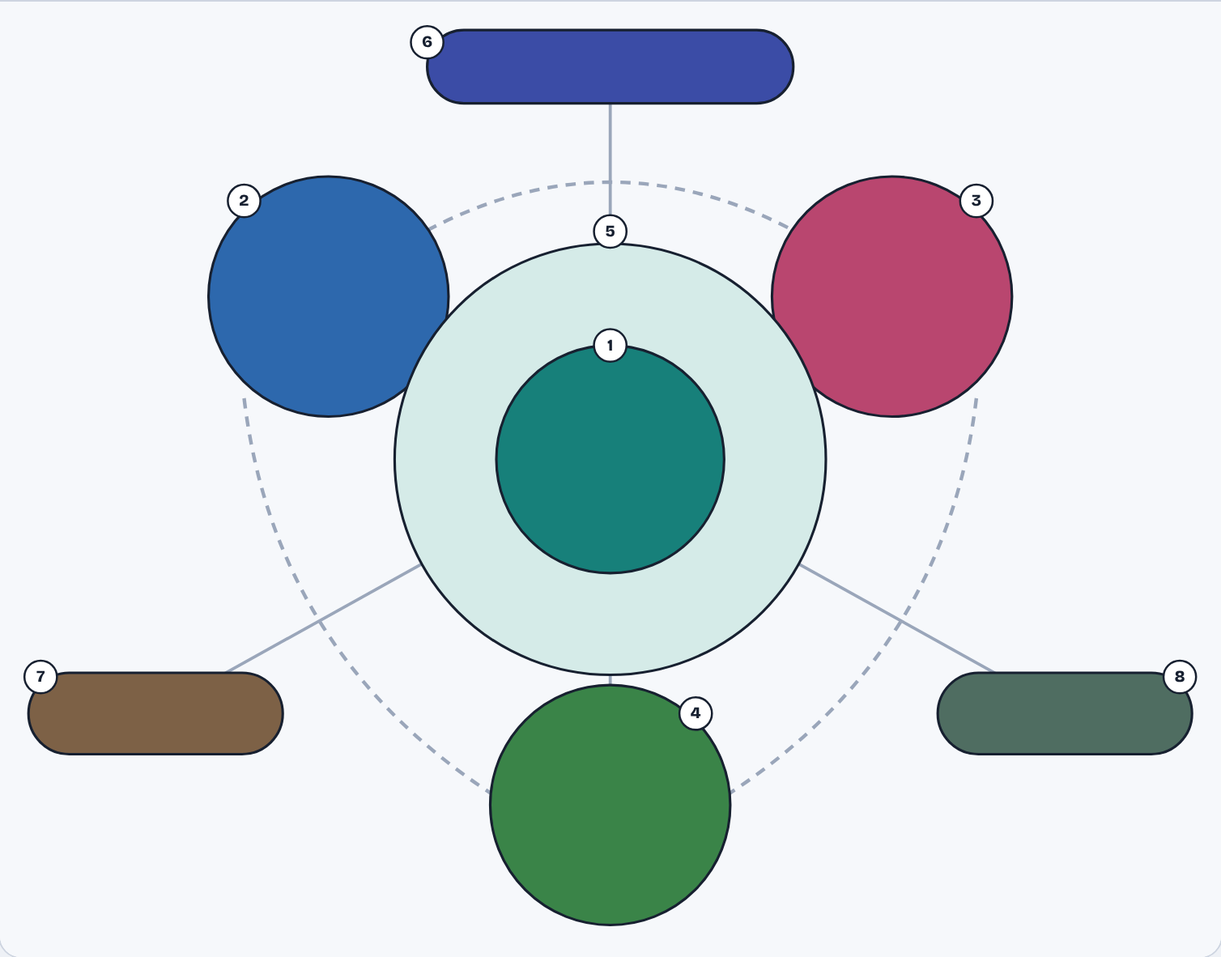
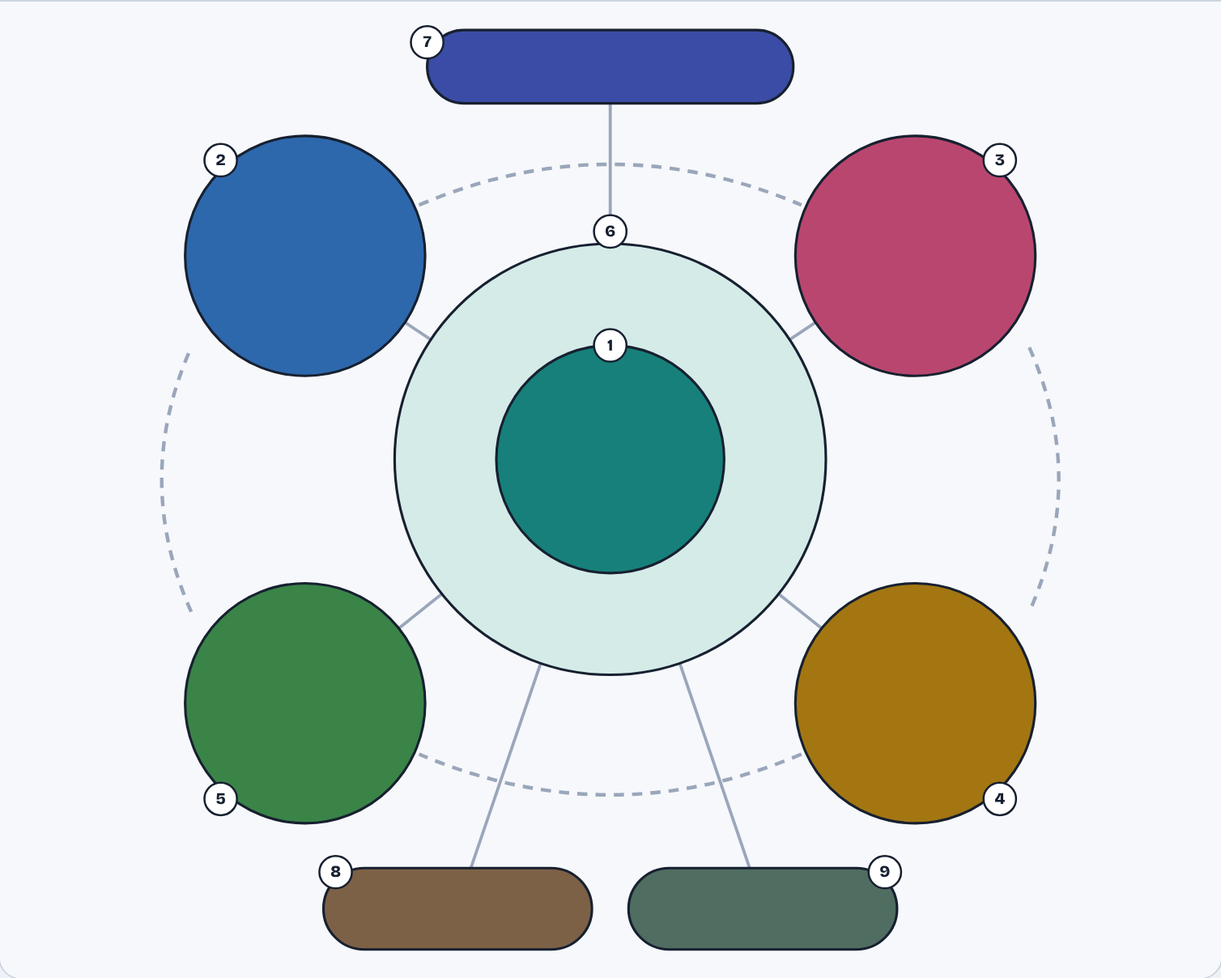
Add Child Witness to the ecosystem diagram and Prezi directions
Claude-Session: https://claude.ai/code/session_019PSDoDWkrb4mkScErA8UkE

diff --git a/Visual Learning Board/clinical-team-leader-ecosystem.html b/Visual Learning Board/clinical-team-leader-ecosystem.html
@@ -7,7 +7,7 @@
 :root {
   --bg: #eef1f6; --surface: #ffffff; --ink: #172030; --muted: #536079; --line: #cdd4e0; --focus: #ff9f1c;
   --canvas: #f6f8fb; --wire: #9aa6ba; --ring: #d5ebe8;
-  --gov: #3b4ca6; --role: #17807a; --admin: #7d6146; --mbc: #2d68ad; --sab: #3a8448; --couns: #b9466f; --part: #4f6d61;
+  --gov: #3b4ca6; --role: #17807a; --admin: #7d6146; --mbc: #2d68ad; --sab: #3a8448; --couns: #b9466f; --part: #4f6d61; --cw: #a37612;
   --display: "Bricolage Grotesque", "Avenir Next", "Segoe UI", system-ui, sans-serif;
   --body: "Atkinson Hyperlegible", "Verdana", "Segoe UI", system-ui, sans-serif;
 }
@@ -41,7 +41,7 @@ button:hover { border-color: var(--muted); }
 button:focus-visible, .node:focus-visible { outline: 3px solid var(--focus); outline-offset: 2px; }
 button[aria-pressed="true"] { background: var(--ink); color: var(--bg); border-color: var(--ink); }
 .stopcount { font-size: 13px; color: var(--muted); font-variant-numeric: tabular-nums; }
-svg.map { width: 100%; height: auto; display: block; aspect-ratio: 1200 / 940; max-width: 100%; background: var(--canvas); }
+svg.map { width: 100%; height: auto; display: block; aspect-ratio: 1200 / 960; max-width: 100%; background: var(--canvas); }
 
 .wire { stroke: var(--wire); stroke-width: 3; fill: none; }
 .wire.ref { stroke-dasharray: 10 8; stroke-width: 3.5; }
@@ -84,7 +84,7 @@ ol.steps li::marker { font-family: var(--display); font-weight: 800; }
   <header>
     <span class="eyebrow">Leadership presentation · CatholicCare CQ DFV services</span>
     <h1>Clinical Team Leader Ecosystem</h1>
-    <p>The Clinical Team Leader is the connection point between three programs, the leadership above them, the people processes that support staff, and the agencies outside. Click any part to zoom in, or press Next to walk the eight stops in presentation order.</p>
+    <p>The Clinical Team Leader is the connection point between four programs, the leadership above them, the people processes that support staff, and the agencies outside. Click any part to zoom in, or press Next to walk the nine stops in presentation order.</p>
   </header>
 
   <section class="board" aria-label="Interactive ecosystem diagram">
@@ -97,83 +97,96 @@ ol.steps li::marker { font-family: var(--display); font-weight: 800; }
         <span class="spacer"></span>
         <button id="recallBtn" type="button" aria-pressed="false">Recall mode</button>
       </div>
-      <svg class="map" id="map" viewBox="0 0 1200 940" role="img" aria-label="Ecosystem diagram with the Clinical Team Leader at the centre">
+      <svg class="map" id="map" viewBox="0 0 1200 960" role="img" aria-label="Ecosystem diagram with the Clinical Team Leader at the centre">
         <!-- wires from centre -->
         <line class="wire" x1="600" y1="450" x2="600" y2="92"/>
-        <line class="wire" x1="600" y1="450" x2="323" y2="290"/>
-        <line class="wire" x1="600" y1="450" x2="877" y2="290"/>
-        <line class="wire" x1="600" y1="450" x2="600" y2="790"/>
-        <line class="wire" x1="600" y1="450" x2="150" y2="700"/>
-        <line class="wire" x1="600" y1="450" x2="1050" y2="700"/>
+        <line class="wire" x1="600" y1="450" x2="300" y2="250"/>
+        <line class="wire" x1="600" y1="450" x2="900" y2="250"/>
+        <line class="wire" x1="600" y1="450" x2="300" y2="690"/>
+        <line class="wire" x1="600" y1="450" x2="900" y2="690"/>
+        <line class="wire" x1="600" y1="450" x2="450" y2="890"/>
+        <line class="wire" x1="600" y1="450" x2="750" y2="890"/>
         <!-- referrals between programs -->
-        <path class="wire ref" d="M420 225 Q 600 130 780 225"/>
-        <path class="wire ref" d="M960 390 Q 930 640 715 780"/>
-        <path class="wire ref" d="M240 390 Q 270 640 485 780"/>
-        <text class="t s ink" x="470" y="186" font-size="13">referrals between programs</text>
+        <path class="wire ref" d="M412 200 Q 600 120 788 200"/>
+        <path class="wire ref" d="M1012 340 Q 1070 470 1012 600"/>
+        <path class="wire ref" d="M788 740 Q 600 820 412 740"/>
+        <path class="wire ref" d="M188 600 Q 130 470 188 340"/>
+        <text class="t s ink" x="480" y="150" font-size="13">referrals between programs</text>
 
-        <!-- 6 Leadership -->
-        <g class="node" data-z="lead" tabindex="0" role="button" aria-label="Stop 6, leadership and governance">
+        <!-- 7 Leadership -->
+        <g class="node" data-z="lead" tabindex="0" role="button" aria-label="Stop 7, leadership and governance">
           <rect class="shape" x="420" y="28" width="360" height="72" rx="36" fill="var(--gov)"/>
           <text class="t" x="600" y="62" font-size="22">Leadership &amp; governance</text>
           <text class="t s" x="600" y="84" font-size="13">Senior leadership · DFV Steering Committee</text>
-          <g class="badge" transform="translate(420,40)"><circle r="16"/><text>6</text></g>
+          <g class="badge" transform="translate(420,40)"><circle r="16"/><text>7</text></g>
         </g>
 
         <!-- 2 MBC -->
         <g class="node" data-z="mbc" tabindex="0" role="button" aria-label="Stop 2, Men's Behaviour Change">
-          <circle class="shape" cx="323" cy="290" r="118" fill="var(--mbc)"/>
-          <text class="t" x="323" y="238" font-size="30">MBC</text>
-          <text class="t s" x="323" y="260" font-size="13">Men’s Behaviour Change</text>
-          <text class="t" x="323" y="294" font-size="16">Rachel · Bree · Zac</text>
-          <text class="t s" x="323" y="324" font-size="13">Rockhampton · Wed &amp; Thu</text>
-          <text class="t s" x="323" y="344" font-size="13">Emerald · fortnightly Tue</text>
-          <g class="badge" transform="translate(240,196)"><circle r="16"/><text>2</text></g>
+          <circle class="shape" cx="300" cy="250" r="118" fill="var(--mbc)"/>
+          <text class="t" x="300" y="198" font-size="30">MBC</text>
+          <text class="t s" x="300" y="220" font-size="13">Men’s Behaviour Change</text>
+          <text class="t" x="300" y="254" font-size="16">Rachel · Bree · Zac</text>
+          <text class="t s" x="300" y="284" font-size="13">Rockhampton · Wed &amp; Thu</text>
+          <text class="t s" x="300" y="304" font-size="13">Emerald · fortnightly Tue</text>
+          <g class="badge" transform="translate(217,156)"><circle r="16"/><text>2</text></g>
         </g>
 
         <!-- 3 Counselling -->
         <g class="node" data-z="couns" tabindex="0" role="button" aria-label="Stop 3, Counselling team">
-          <circle class="shape" cx="877" cy="290" r="118" fill="var(--couns)"/>
-          <text class="t" x="877" y="238" font-size="26">Counselling</text>
-          <text class="t s" x="877" y="260" font-size="13">Counselling team</text>
-          <text class="t" x="877" y="294" font-size="16">Georgia · Candy · Lorena</text>
-          <text class="t s" x="877" y="324" font-size="13">Therapeutic interventions</text>
-          <text class="t s" x="877" y="344" font-size="13">Internal referrals</text>
-          <g class="badge" transform="translate(960,196)"><circle r="16"/><text>3</text></g>
+          <circle class="shape" cx="900" cy="250" r="118" fill="var(--couns)"/>
+          <text class="t" x="900" y="198" font-size="26">Counselling</text>
+          <text class="t s" x="900" y="220" font-size="13">Counselling team</text>
+          <text class="t" x="900" y="254" font-size="16">Georgia · Candy · Lorena</text>
+          <text class="t s" x="900" y="284" font-size="13">Therapeutic interventions</text>
+          <text class="t s" x="900" y="304" font-size="13">Internal referrals</text>
+          <g class="badge" transform="translate(983,156)"><circle r="16"/><text>3</text></g>
         </g>
 
-        <!-- 4 SAB -->
-        <g class="node" data-z="sab" tabindex="0" role="button" aria-label="Stop 4, Supporting Adolescent Boys">
-          <circle class="shape" cx="600" cy="790" r="118" fill="var(--sab)"/>
-          <text class="t" x="600" y="726" font-size="30">SAB</text>
-          <text class="t s" x="600" y="748" font-size="13">Supporting Adolescent Boys</text>
-          <text class="t" x="600" y="778" font-size="15">Hayden Lovell</text>
-          <text class="t" x="600" y="797" font-size="15">Hayden Peckover · Ric</text>
-          <text class="t s" x="600" y="826" font-size="13">Early intervention · Family</text>
-          <text class="t s" x="600" y="844" font-size="13">engagement · Behaviour change</text>
-          <g class="badge" transform="translate(684,700)"><circle r="16"/><text>4</text></g>
+        <!-- 4 Child Witness -->
+        <g class="node" data-z="cw" tabindex="0" role="button" aria-label="Stop 4, Child Witness">
+          <circle class="shape" cx="900" cy="690" r="118" fill="var(--cw)"/>
+          <text class="t" x="900" y="640" font-size="26">Child Witness</text>
+          <text class="t s" x="900" y="662" font-size="13">Children affected by DFV</text>
+          <text class="t" x="900" y="696" font-size="16">Team: add names</text>
+          <text class="t s" x="900" y="726" font-size="13">Child-focused support</text>
+          <text class="t s" x="900" y="746" font-size="13">Trauma-informed · Safe carers</text>
+          <g class="badge" transform="translate(983,784)"><circle r="16"/><text>4</text></g>
         </g>
 
-        <!-- 7 HR -->
-        <g class="node" data-z="hr" tabindex="0" role="button" aria-label="Stop 7, people and HR processes">
-          <rect class="shape" x="28" y="660" width="250" height="80" rx="40" fill="var(--admin)"/>
-          <text class="t" x="153" y="696" font-size="20">People &amp; HR</text>
-          <text class="t s" x="153" y="719" font-size="13">HR 029 · Employment Hero</text>
-          <g class="badge" transform="translate(40,664)"><circle r="16"/><text>7</text></g>
+        <!-- 5 SAB -->
+        <g class="node" data-z="sab" tabindex="0" role="button" aria-label="Stop 5, Supporting Adolescent Boys">
+          <circle class="shape" cx="300" cy="690" r="118" fill="var(--sab)"/>
+          <text class="t" x="300" y="626" font-size="30">SAB</text>
+          <text class="t s" x="300" y="648" font-size="13">Supporting Adolescent Boys</text>
+          <text class="t" x="300" y="678" font-size="15">Hayden Lovell</text>
+          <text class="t" x="300" y="697" font-size="15">Hayden Peckover · Ric</text>
+          <text class="t s" x="300" y="726" font-size="13">Early intervention · Family</text>
+          <text class="t s" x="300" y="744" font-size="13">engagement · Behaviour change</text>
+          <g class="badge" transform="translate(217,784)"><circle r="16"/><text>5</text></g>
         </g>
 
-        <!-- 8 Stakeholders -->
-        <g class="node" data-z="stake" tabindex="0" role="button" aria-label="Stop 8, external stakeholders">
-          <rect class="shape" x="922" y="660" width="250" height="80" rx="40" fill="var(--part)"/>
-          <text class="t" x="1047" y="696" font-size="20">Stakeholders</text>
-          <text class="t s" x="1047" y="719" font-size="13">HRT · Child Safety · QPS · Court</text>
-          <g class="badge" transform="translate(1160,664)"><circle r="16"/><text>8</text></g>
+        <!-- 8 HR -->
+        <g class="node" data-z="hr" tabindex="0" role="button" aria-label="Stop 8, people and HR processes">
+          <rect class="shape" x="318" y="852" width="264" height="80" rx="40" fill="var(--admin)"/>
+          <text class="t" x="450" y="888" font-size="20">People &amp; HR</text>
+          <text class="t s" x="450" y="911" font-size="13">HR 029 · Employment Hero</text>
+          <g class="badge" transform="translate(330,856)"><circle r="16"/><text>8</text></g>
         </g>
 
-        <!-- 5 Overlap ring -->
-        <g class="node" data-z="overlap" tabindex="0" role="button" aria-label="Stop 5, where the overlap occurs">
+        <!-- 9 Stakeholders -->
+        <g class="node" data-z="stake" tabindex="0" role="button" aria-label="Stop 9, external stakeholders">
+          <rect class="shape" x="618" y="852" width="264" height="80" rx="40" fill="var(--part)"/>
+          <text class="t" x="750" y="888" font-size="20">Stakeholders</text>
+          <text class="t s" x="750" y="911" font-size="13">HRT · Child Safety · QPS · Court</text>
+          <g class="badge" transform="translate(870,856)"><circle r="16"/><text>9</text></g>
+        </g>
+
+        <!-- 6 Overlap ring -->
+        <g class="node" data-z="overlap" tabindex="0" role="button" aria-label="Stop 6, where the overlap occurs">
           <circle class="shape" cx="600" cy="450" r="212" fill="var(--ring)"/>
           <g id="ringlabels"></g>
-          <g class="badge" transform="translate(600,226)"><circle r="16"/><text>5</text></g>
+          <g class="badge" transform="translate(600,226)"><circle r="16"/><text>6</text></g>
         </g>
 
         <!-- 1 Centre -->
@@ -202,8 +215,8 @@ ol.steps li::marker { font-family: var(--display); font-weight: 800; }
       <h2 id="pz">Turn the picture into your presentation</h2>
       <ol class="steps">
         <li><b>Background.</b> Upload the ecosystem picture as the Prezi background. Use the labelled version for presenting and the blank one to rehearse.</li>
-        <li><b>Topics.</b> Put a topic over each of the eight parts, named exactly as on the picture.</li>
-        <li><b>Path.</b> Order the path 1 to 8: you, the three programs, the overlap, then outward to leadership, people and stakeholders. End by zooming back out to the whole picture.</li>
+        <li><b>Topics.</b> Put a topic over each of the nine parts, named exactly as on the picture.</li>
+        <li><b>Path.</b> Order the path 1 to 9: you, the four programs, the overlap, then outward to leadership, people and stakeholders. End by zooming back out to the whole picture.</li>
         <li><b>Subtopics.</b> Inside the centre circle, add the nine responsibilities as three groups of three: Leading practice, Leading people, Leading outward. Three groups are easier to hold than nine items.</li>
         <li><b>Speaker notes.</b> Paste the presenter line for each stop into that topic’s notes.</li>
         <li><b>Rehearse with recall mode.</b> Turn on Recall mode here, click each part and say your line before revealing it.</li>
@@ -215,39 +228,44 @@ ol.steps li::marker { font-family: var(--display); font-weight: 800; }
 <script>
 const Z = {
   ctl: { n:1, c:'--role', band:'Centre', title:'Clinical Team Leader', box:[470,320,260,260],
-    say:'My role sits at the centre. I connect three programs, the staff in them, our leadership, our people processes and our partner agencies.',
+    say:'My role sits at the centre. I connect four programs, the staff in them, our leadership, our people processes and our partner agencies.',
     groups:[['Leading practice',['Clinical governance','Quality assurance','Risk assessment and management']],
             ['Leading people',['Staff development','Supervision and support','Workforce wellbeing']],
             ['Leading outward',['Stakeholder engagement','Service integration','Reporting and outcomes']]],
     next:[['overlap','The overlap is where my role does its work'],['lead','I report up to leadership']]},
-  mbc: { n:2, c:'--mbc', band:'Program', title:'Men’s Behaviour Change (MBC)', box:[195,162,256,256],
+  mbc: { n:2, c:'--mbc', band:'Program', title:'Men’s Behaviour Change (MBC)', box:[172,122,256,256],
     say:'MBC works with men using violence, keeping the safety of women and children at the centre. We run in Rockhampton twice a week and in Emerald fortnightly.',
     what:['Group program for men using violence','Rockhampton groups on Wednesday and Thursday','Emerald group fortnightly on Tuesday','Participation reported through collateral checks and HRT RFIs'],
     who:['Rachel','Bree','Zac'],
     next:[['couns','Partners and family members referred to Counselling'],['sab','Shared families with adolescent boys'],['stake','Collateral checks and HRT']]},
-  couns: { n:3, c:'--couns', band:'Program', title:'Counselling team', box:[749,162,256,256],
+  couns: { n:3, c:'--couns', band:'Program', title:'Counselling team', box:[772,122,256,256],
     say:'The Counselling team provides therapeutic interventions and takes internal referrals from our other programs.',
     what:['Therapeutic interventions','Internal referrals from MBC and SAB'],
     who:['Georgia','Candy','Lorena'],
     next:[['mbc','Referrals in from MBC'],['sab','Referrals in from SAB'],['overlap','Shared clients and families']]},
-  sab: { n:4, c:'--sab', band:'Program', title:'Supporting Adolescent Boys (SAB)', box:[472,662,256,256],
+  cw: { n:4, c:'--cw', band:'Program', title:'Child Witness', box:[772,562,256,256],
+    say:'Child Witness supports children who have seen or lived through domestic and family violence, keeping their voices and their safety at the centre.',
+    what:['Support for children affected by domestic and family violence','Child-focused and trauma-informed','Working alongside the child’s safe carers'],
+    who:['Add team names'],
+    next:[['sab','Children and young people across both programs'],['couns','Safe carers referred to Counselling'],['stake','Child Safety']]},
+  sab: { n:5, c:'--sab', band:'Program', title:'Supporting Adolescent Boys (SAB)', box:[172,562,256,256],
     say:'SAB is early intervention. We work with adolescent boys and their families on behaviour change pathways before patterns set in.',
     what:['Early intervention','Family engagement','Behaviour change pathways'],
     who:['Hayden Lovell','Hayden Peckover','Ric'],
     next:[['mbc','Behaviour change pathway links to MBC'],['couns','Family members referred to Counselling'],['overlap','Shared families']]},
-  overlap: { n:5, c:'--role', band:'The overlap', title:'Where the overlap occurs', box:[378,228,444,444],
+  overlap: { n:6, c:'--role', band:'The overlap', title:'Where the overlap occurs', box:[378,228,444,444],
     say:'The programs don’t work in silos. Families, risk and referrals cross between them, and this overlap is where my role adds the most value.',
     what:['Shared clients and families','Risk management','Referrals between programs','Collaborative case planning','Service coordination','Community engagement','Practice improvement'],
     next:[['ctl','The Clinical Team Leader holds the overlap together'],['stake','Community engagement reaches outward']]},
-  lead: { n:6, c:'--gov', band:'Above', title:'Leadership & governance', box:[400,10,400,110],
+  lead: { n:7, c:'--gov', band:'Above', title:'Leadership & governance', box:[400,10,400,110],
     say:'Upward, I report outcomes to senior leadership and the DFV Steering Committee and carry their direction back into practice.',
     what:['CatholicCare CQ senior leadership','DFV Steering Committee priorities and KPIs','Reporting and outcomes','Clinical governance frameworks and policy'],
     next:[['ctl','Direction comes down through the centre'],['hr','Policy shapes people processes']]},
-  hr: { n:7, c:'--admin', band:'Alongside', title:'People & HR processes', box:[10,620,290,140],
+  hr: { n:8, c:'--admin', band:'Alongside', title:'People & HR processes', box:[300,830,300,120],
     say:'Alongside the clinical work, I hold the people processes that keep the team safe, skilled and supported.',
     what:['Line management recorded on HR 029','Employment Hero for leave and compliance','Professional supervision and development','Student placements, including CQU social work','Workforce wellbeing'],
     next:[['ctl','Supervision and support'],['lead','HR policy from leadership']]},
-  stake: { n:8, c:'--part', band:'Outside', title:'External stakeholders', box:[900,620,290,140],
+  stake: { n:9, c:'--part', band:'Outside', title:'External stakeholders', box:[600,830,300,120],
     say:'Outward, I keep our partnerships strong, sharing information safely with the agencies that hold risk with us.',
     what:['HRT Capricornia, the High Risk Team','Child Safety','Queensland Police Service','Corrective Services','Rockhampton court support','CQUniversity'],
     next:[['ctl','Stakeholder engagement'],['mbc','Collateral checks about MBC participants']]}
@@ -255,7 +273,7 @@ const Z = {
 const ORDER = Object.keys(Z).sort((a,b)=>Z[a].n-Z[b].n);
 const svg = document.getElementById('map'), panel = document.getElementById('panel');
 const NS = 'http://www.w3.org/2000/svg';
-const FULL = [0,0,1200,940];
+const FULL = [0,0,1200,960];
 let cur = null, vb = FULL.slice(), recall = false, revealed = false, anim = null;
 const reduce = window.matchMedia('(prefers-reduced-motion: reduce)').matches;
 
@@ -263,7 +281,7 @@ const reduce = window.matchMedia('(prefers-reduced-motion: reduce)').matches;
 const RING = [['Shared clients','& families'],['Risk','management'],['Referrals','between programs'],['Collaborative','case planning'],['Service','coordination'],['Community','engagement'],['Practice','improvement']];
 const rl = document.getElementById('ringlabels');
 RING.forEach((lines,i)=>{
-  const a = (-90 + 360/RING.length*(i+0.5)) * Math.PI/180, x = 600+162*Math.cos(a), y = 450+162*Math.sin(a);
+  const a = [-118,-62,0,53,90,127,180][i] * Math.PI/180, x = 600+162*Math.cos(a), y = 450+162*Math.sin(a);
   lines.forEach((ln,j)=>{ const t=document.createElementNS(NS,'text'); t.setAttribute('class','t ink'+(j?' s':'')); t.setAttribute('x',x.toFixed(1)); t.setAttribute('y',(y+j*16-2).toFixed(1)); t.setAttribute('font-size', j?12:14); t.textContent=ln; rl.appendChild(t); });
 });
 
@@ -286,14 +304,14 @@ function render(){
   if (!cur){
     panel.style.setProperty('--zc','var(--ink)');
     panel.innerHTML = `<div class="head"><span class="eyebrow">Start here</span><h2>Read it from the centre out</h2></div>
-      <ul><li><b>Centre:</b> the Clinical Team Leader and nine areas of responsibility</li><li><b>Ring:</b> the seven places the programs overlap</li><li><b>Three circles:</b> MBC, Counselling and SAB with their teams</li><li><b>Edges:</b> leadership above, people processes and stakeholders either side</li></ul>
+      <ul><li><b>Centre:</b> the Clinical Team Leader and nine areas of responsibility</li><li><b>Ring:</b> the seven places the programs overlap</li><li><b>Four circles:</b> MBC, Counselling, Child Witness and SAB with their teams</li><li><b>Edges:</b> leadership above, people processes and stakeholders below</li></ul>
       <p>Dashed lines show referrals moving between the programs.</p>
       <div class="links"><button type="button" data-go="ctl"><span class="dot" style="background:var(--role)"></span><b>Start the walk-through</b></button></div>`;
     return;
   }
   const z = Z[cur];
   panel.style.setProperty('--zc','var('+z.c+')');
-  const head = `<div class="head"><span class="eyebrow">Stop ${z.n} of 8 · ${esc(z.band)}</span><h2>${esc(z.title)}</h2></div>`;
+  const head = `<div class="head"><span class="eyebrow">Stop ${z.n} of 9 · ${esc(z.band)}</span><h2>${esc(z.title)}</h2></div>`;
   if (recall && !revealed){
     panel.innerHTML = head + `<div class="reveal"><p>Say your presenter line out loud, then name what sits here. Then check.</p><button type="button" id="reveal">Reveal</button></div>`;
     document.getElementById('reveal').onclick = ()=>{ revealed = true; render(); };
@@ -310,7 +328,7 @@ function go(k){
   cur = k; revealed = false;
   document.querySelectorAll('.node').forEach(g=>g.classList.toggle('on', g.dataset.z===k));
   zoomTo(k ? pad(Z[k].box) : FULL);
-  document.getElementById('stopcount').textContent = k ? `Stop ${Z[k].n} of 8` : 'Overview';
+  document.getElementById('stopcount').textContent = k ? `Stop ${Z[k].n} of 9` : 'Overview';
   render();
   try { history.replaceState(null,'', k ? '#'+k : location.pathname); } catch(e){}
 }

diff --git a/Visual Learning Board/prezi-build-directions.html b/Visual Learning Board/prezi-build-directions.html
@@ -101,26 +101,29 @@ const ECO_TOPICS = [
   C('--role','Clinical Team Leader','Circle, over the centre'),
   C('--mbc','Men’s Behaviour Change (MBC)','Circle, top left'),
   C('--couns','Counselling team','Circle, top right'),
-  C('--sab','Supporting Adolescent Boys (SAB)','Circle, bottom'),
+  C('--cw','Child Witness','Circle, bottom right'),
+  C('--sab','Supporting Adolescent Boys (SAB)','Circle, bottom left'),
   C('--role','Where the overlap occurs','Large circle, over the pale ring'),
   C('--gov','Leadership & governance','Rectangle, top'),
-  C('--admin','People & HR processes','Rectangle, bottom left'),
-  C('--part','External stakeholders','Rectangle, bottom right')];
+  C('--admin','People & HR processes','Rectangle, bottom, left of centre'),
+  C('--part','External stakeholders','Rectangle, bottom, right of centre')];
 const ECO_SUBS = [
   C('--role','Clinical Team Leader','Leading practice: Clinical governance · Quality assurance · Risk assessment and management\nLeading people: Staff development · Supervision and support · Workforce wellbeing\nLeading outward: Stakeholder engagement · Service integration · Reporting and outcomes'),
   C('--mbc','MBC','Team: Rachel · Bree · Zac\nWhen: Rockhampton Wednesday and Thursday · Emerald fortnightly Tuesday\nConnects to: Counselling referrals · Shared families with SAB · Collateral checks and HRT'),
   C('--couns','Counselling','Team: Georgia · Candy · Lorena\nFocus: Therapeutic interventions · Internal referrals\nConnects to: Referrals from MBC and SAB · Shared clients and families'),
+  C('--cw','Child Witness','Team: add names\nFocus: Child-focused support · Trauma-informed · Safe carers\nConnects to: SAB · Safe carers to Counselling · Child Safety'),
   C('--sab','SAB','Team: Hayden Lovell · Hayden Peckover · Ric\nFocus: Early intervention · Family engagement · Behaviour change pathways\nConnects to: MBC pathway · Family referrals to Counselling'),
   C('--role','Where the overlap occurs','Shared clients and families · Risk management · Referrals between programs · Collaborative case planning · Service coordination · Community engagement · Practice improvement')];
 const ECO_NOTES = [
-  C('--role','1 · Clinical Team Leader','My role sits at the centre. I connect three programs, the staff in them, our leadership, our people processes and our partner agencies.'),
+  C('--role','1 · Clinical Team Leader','My role sits at the centre. I connect four programs, the staff in them, our leadership, our people processes and our partner agencies.'),
   C('--mbc','2 · MBC','MBC works with men using violence, keeping the safety of women and children at the centre. We run in Rockhampton twice a week and in Emerald fortnightly.'),
   C('--couns','3 · Counselling','The Counselling team provides therapeutic interventions and takes internal referrals from our other programs.'),
-  C('--sab','4 · SAB','SAB is early intervention. We work with adolescent boys and their families on behaviour change pathways before patterns set in.'),
-  C('--role','5 · The overlap','The programs don’t work in silos. Families, risk and referrals cross between them, and this overlap is where my role adds the most value.'),
-  C('--gov','6 · Leadership','Upward, I report outcomes to senior leadership and the DFV Steering Committee and carry their direction back into practice.'),
-  C('--admin','7 · People & HR','Alongside the clinical work, I hold the people processes that keep the team safe, skilled and supported.'),
-  C('--part','8 · Stakeholders','Outward, I keep our partnerships strong, sharing information safely with the agencies that hold risk with us.')];
+  C('--cw','4 · Child Witness','Child Witness supports children who have seen or lived through domestic and family violence, keeping their voices and their safety at the centre.'),
+  C('--sab','5 · SAB','SAB is early intervention. We work with adolescent boys and their families on behaviour change pathways before patterns set in.'),
+  C('--role','6 · The overlap','The programs don’t work in silos. Families, risk and referrals cross between them, and this overlap is where my role adds the most value.'),
+  C('--gov','7 · Leadership','Upward, I report outcomes to senior leadership and the DFV Steering Committee and carry their direction back into practice.'),
+  C('--admin','8 · People & HR','Alongside the clinical work, I hold the people processes that keep the team safe, skilled and supported.'),
+  C('--part','9 · Stakeholders','Outward, I keep our partnerships strong, sharing information safely with the agencies that hold risk with us.')];
 
 const HOUSE_TOPICS = [
   C('--gov','Governance & direction','Triangle area, the roof'),
@@ -145,20 +148,20 @@ const PHASES = {
       ['Delete any topics Prezi added for you','Click each one and press Delete. You want an empty canvas.'],
       ['Set ecosystem-labelled.png as the background image','Open the style or theme options, choose Background, and upload the picture. Stretch it to fill the canvas.','The whole diagram shows when you zoom right out.']]},
     { h:'Add a topic over each part', t:'15 min', steps:[
-      ['Add 8 topics, one over each numbered part','Add a topic, then drag and resize it so it sits exactly over that part of the picture. Use a circle for circles and a rectangle for the pill shapes. Copy each title below so the words match the picture.',null,'topics'],
+      ['Add 9 topics, one over each numbered part','Add a topic, then drag and resize it so it sits exactly over that part of the picture. Use a circle for circles and a rectangle for the pill shapes. Copy each title below so the words match the picture.',null,'topics'],
       ['Make the topic frames invisible or transparent','Select each topic and choose a transparent frame in its style options. The picture shows through and Prezi still zooms to it.','You can see the picture clearly with no boxes on top.']]},
     { h:'Fill the topics', t:'15 min', steps:[
-      ['Add subtopics inside the five main topics','Open each topic and add the three groups below as subtopics. Keep it to three per topic. Copy and paste each one.',null,'subs'],
+      ['Add subtopics inside the six main topics','Open each topic and add the three groups below as subtopics. Keep it to three per topic. Copy and paste each one.',null,'subs'],
       ['Leave Leadership, People & HR and Stakeholders as single slides','The picture already lists what sits there. Your speaker notes do the rest.']]},
     { h:'Set the path', t:'5 min', steps:[
-      ['Check the path order runs 1 to 8','Look at the path list on the left. Drag the topics into this order: Clinical Team Leader, MBC, Counselling, SAB, Where the overlap occurs, Leadership, People & HR, Stakeholders.','The numbers on the left match the badges on the picture.'],
-      ['End on the whole picture','After stop 8, make the last step zoom back out to the full canvas. It lets the audience see the whole ecosystem again while you close.']]},
+      ['Check the path order runs 1 to 9','Look at the path list on the left. Drag the topics into this order: Clinical Team Leader, MBC, Counselling, Child Witness, SAB, Where the overlap occurs, Leadership, People & HR, Stakeholders.','The numbers on the left match the badges on the picture.'],
+      ['End on the whole picture','After stop 9, make the last step zoom back out to the full canvas. It lets the audience see the whole ecosystem again while you close.']]},
     { h:'Add your speaker notes', t:'10 min', steps:[
       ['Paste one presenter line into each topic’s notes','Open the notes area for each topic and paste its line. Only you see these when you present.',null,'notes']]},
     { h:'Rehearse', t:'10 min', steps:[
       ['Duplicate the whole Prezi','Name the copy “Ecosystem rehearsal”.'],
       ['In the copy, swap the background for ecosystem-blank-for-rehearsal.png','The circles and colours stay, the words disappear.'],
-      ['Present the copy once and say each line from memory','Pull the words out before you look. That effort is what makes them stay.','You got through all 8 stops. Check the notes for anything you missed.'],
+      ['Present the copy once and say each line from memory','Pull the words out before you look. That effort is what makes them stay.','You got through all 9 stops. Check the notes for anything you missed.'],
       ['Present the real version once from start to finish','Time it. Aim for about one minute per stop.']]}
   ],
   house: [
